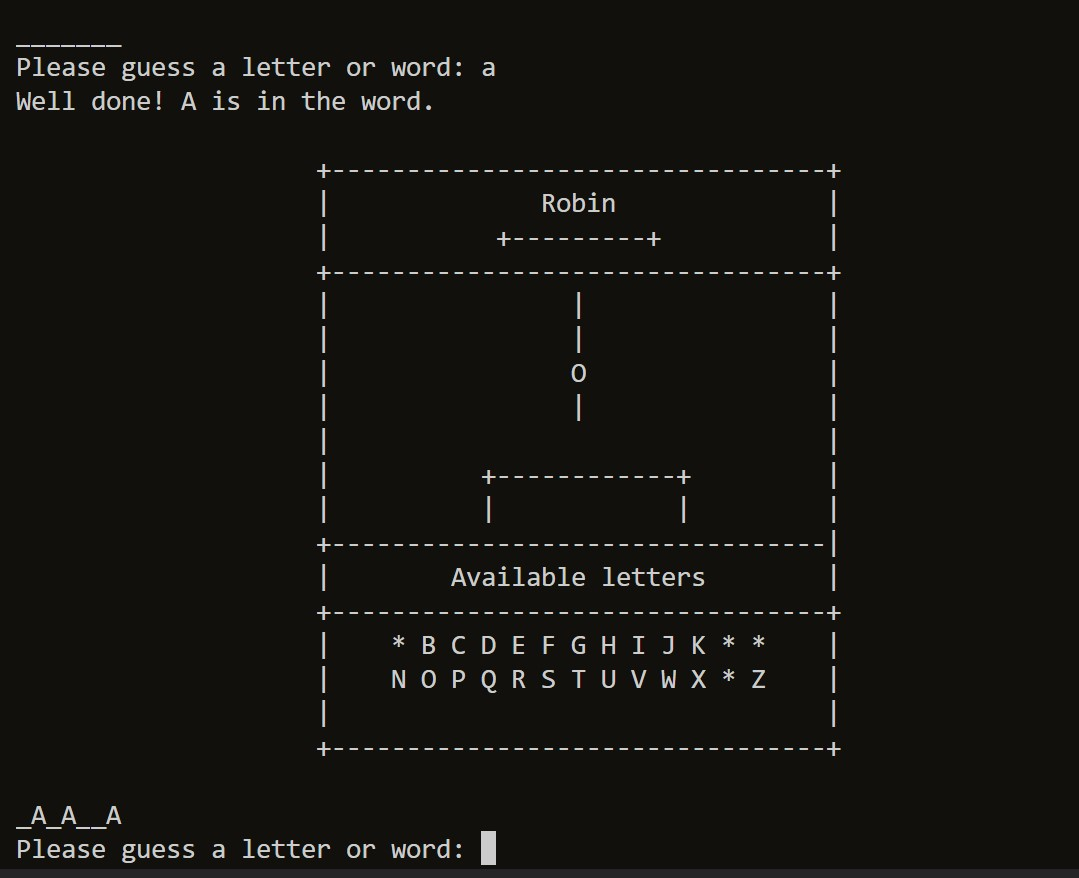
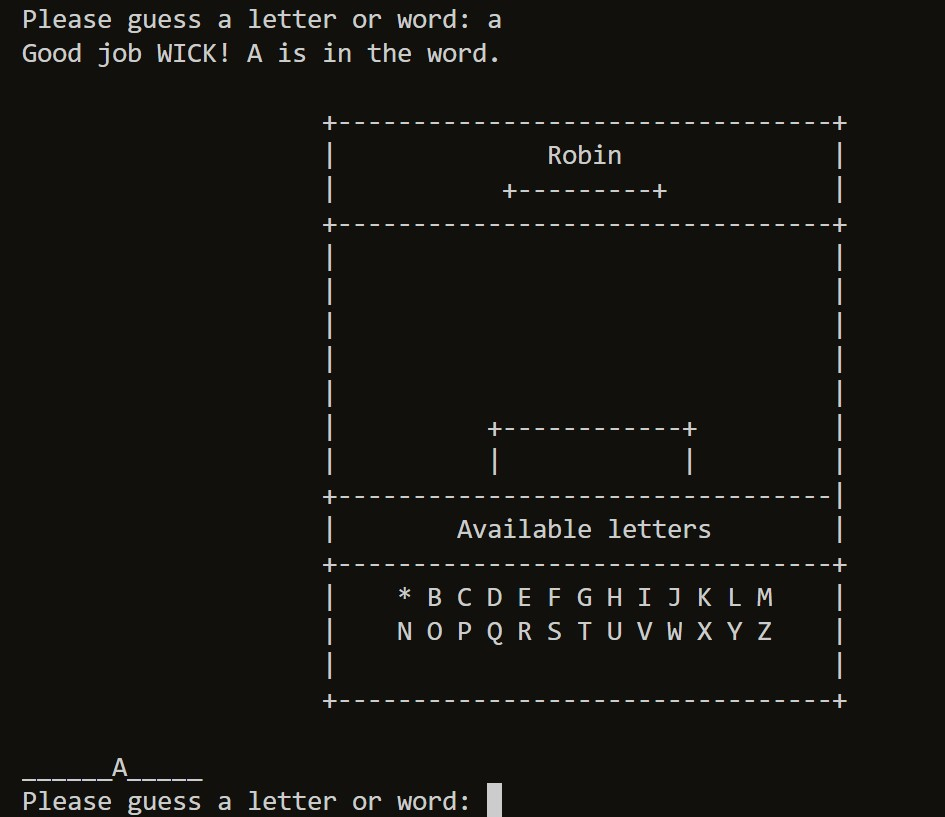
Channge strings in functions.py for game /add images

diff --git a/game/functions.py b/game/functions.py
@@ -107,7 +107,7 @@ def validate_guess(guess, guessed_letters):
        guess not in guessed_letters):
         return True
     if guess in guessed_letters:
-        print("You've already guessed the letter: " + guess)
+        print(f"You've already guessed that letter {player}: " + guess)
     if guess.isalpha() is False:
         print("Guess is not valid, please try again.")
     return False
@@ -142,11 +142,11 @@ def play(word, game_letters):
                 game_letters2 = game_letters2.replace(guess.upper(), '*')
                 if check_if_guess_in_word(guess, word):
                     completed_word = replace_guess(word, completed_word, guess)
-                    print("Well done!", guess, "is in the word.")
+                    print(f"Good job {player}!", guess, "is in the word.")
                     if completed_word.upper() == word.upper():
                         guessed = True
                 else:
-                    print("Sorry " + guess + " is not in the word.")
+                    print(f"Unfortunately {player}, " + guess + " is not in the word.")
                     attempts -= 1
             else:
                 if guess.isalpha():
